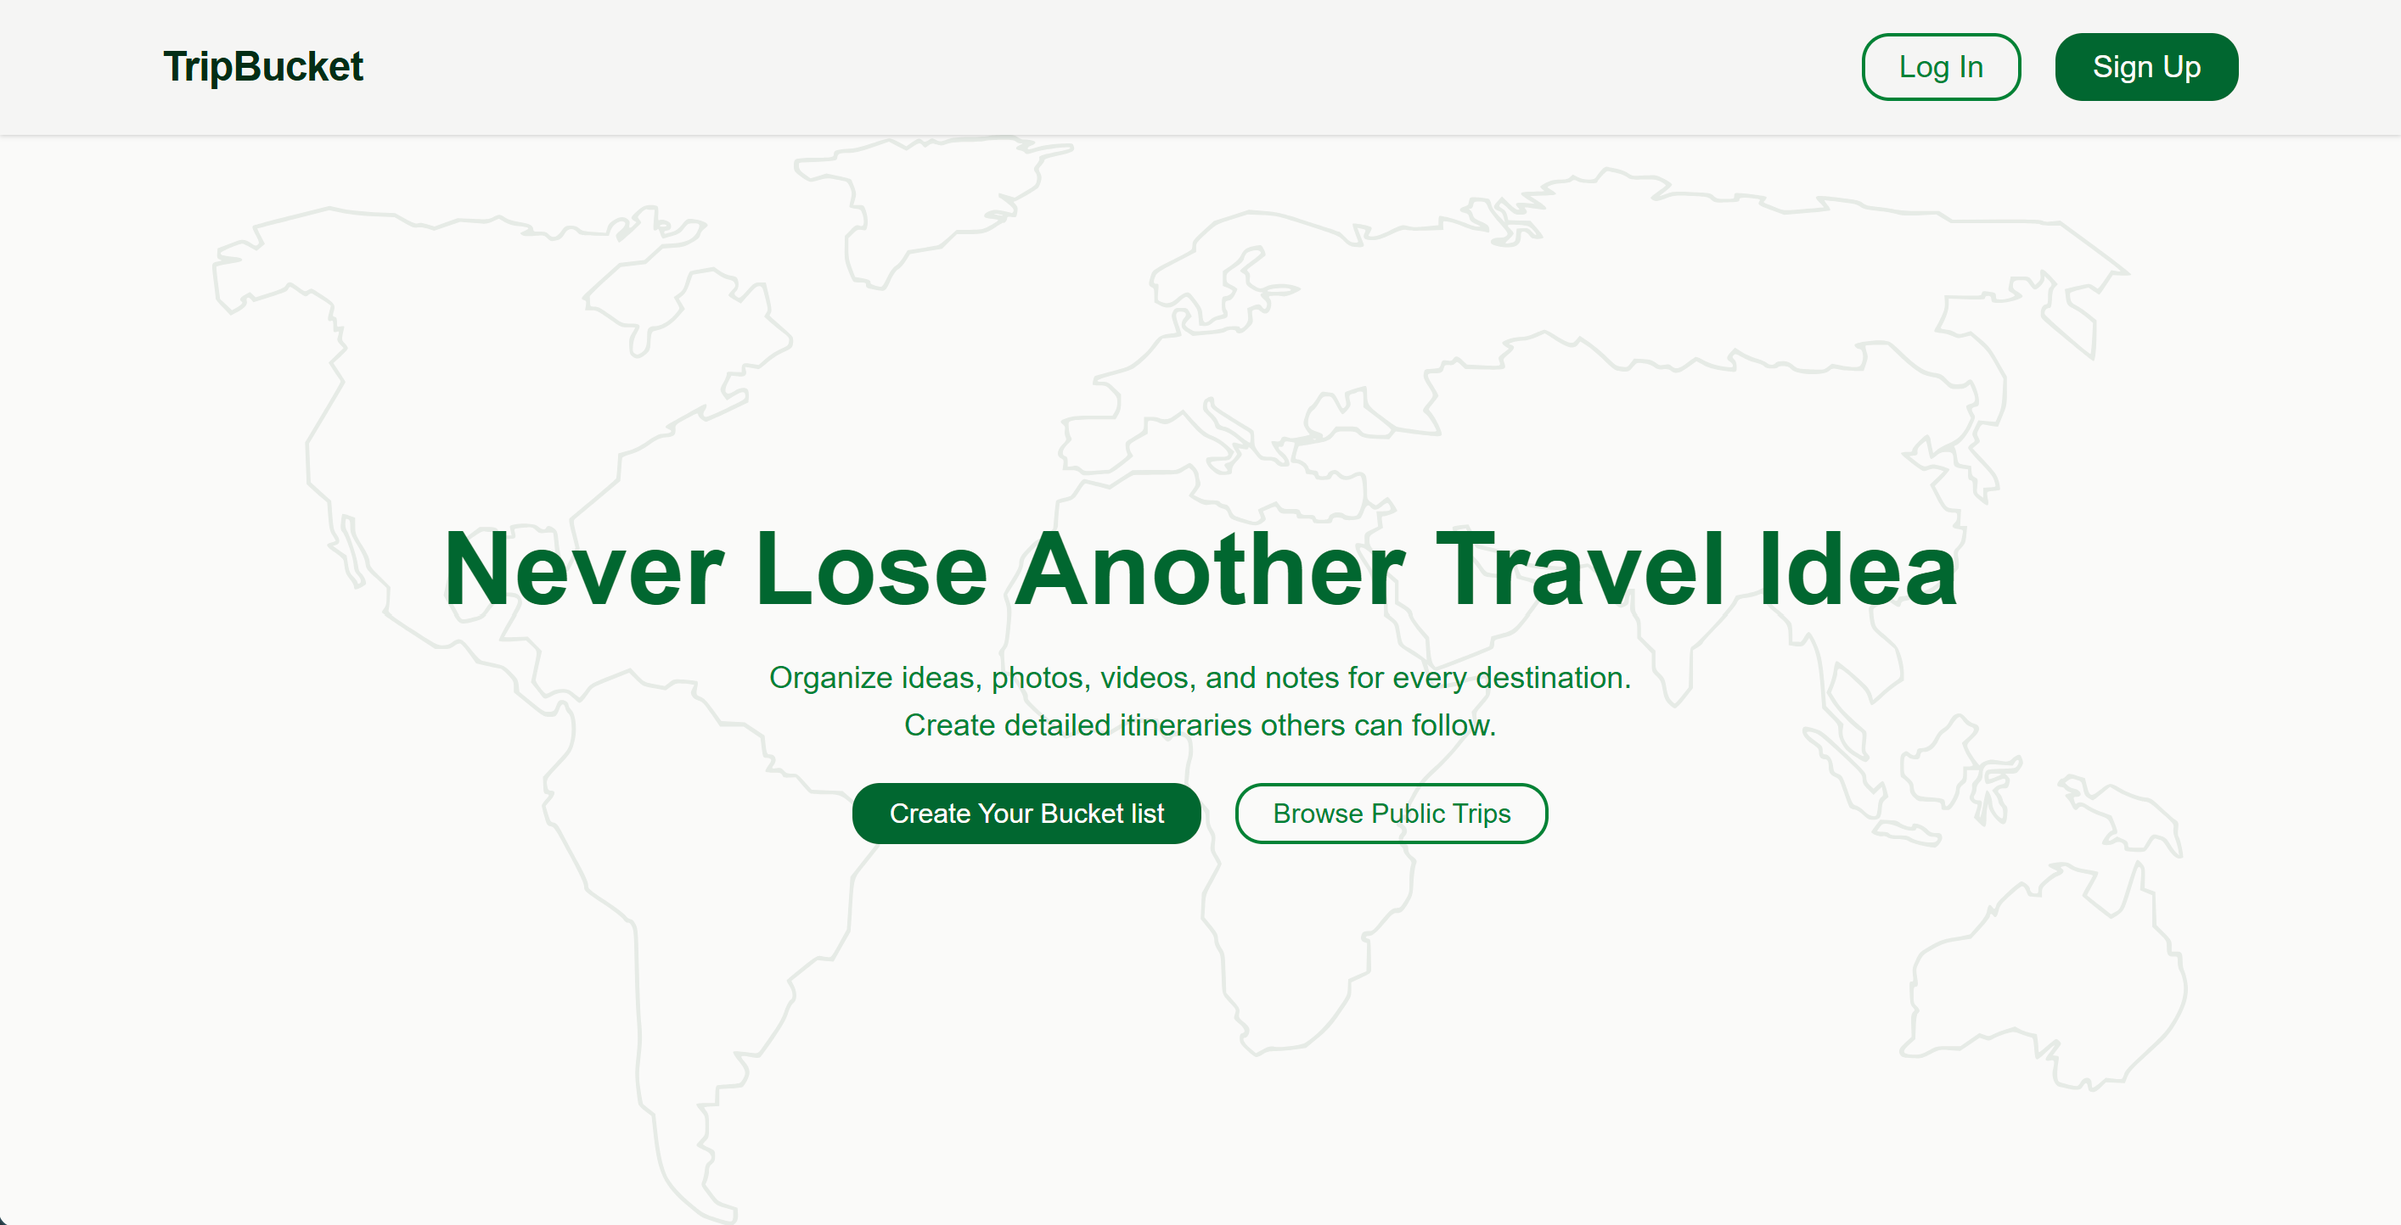
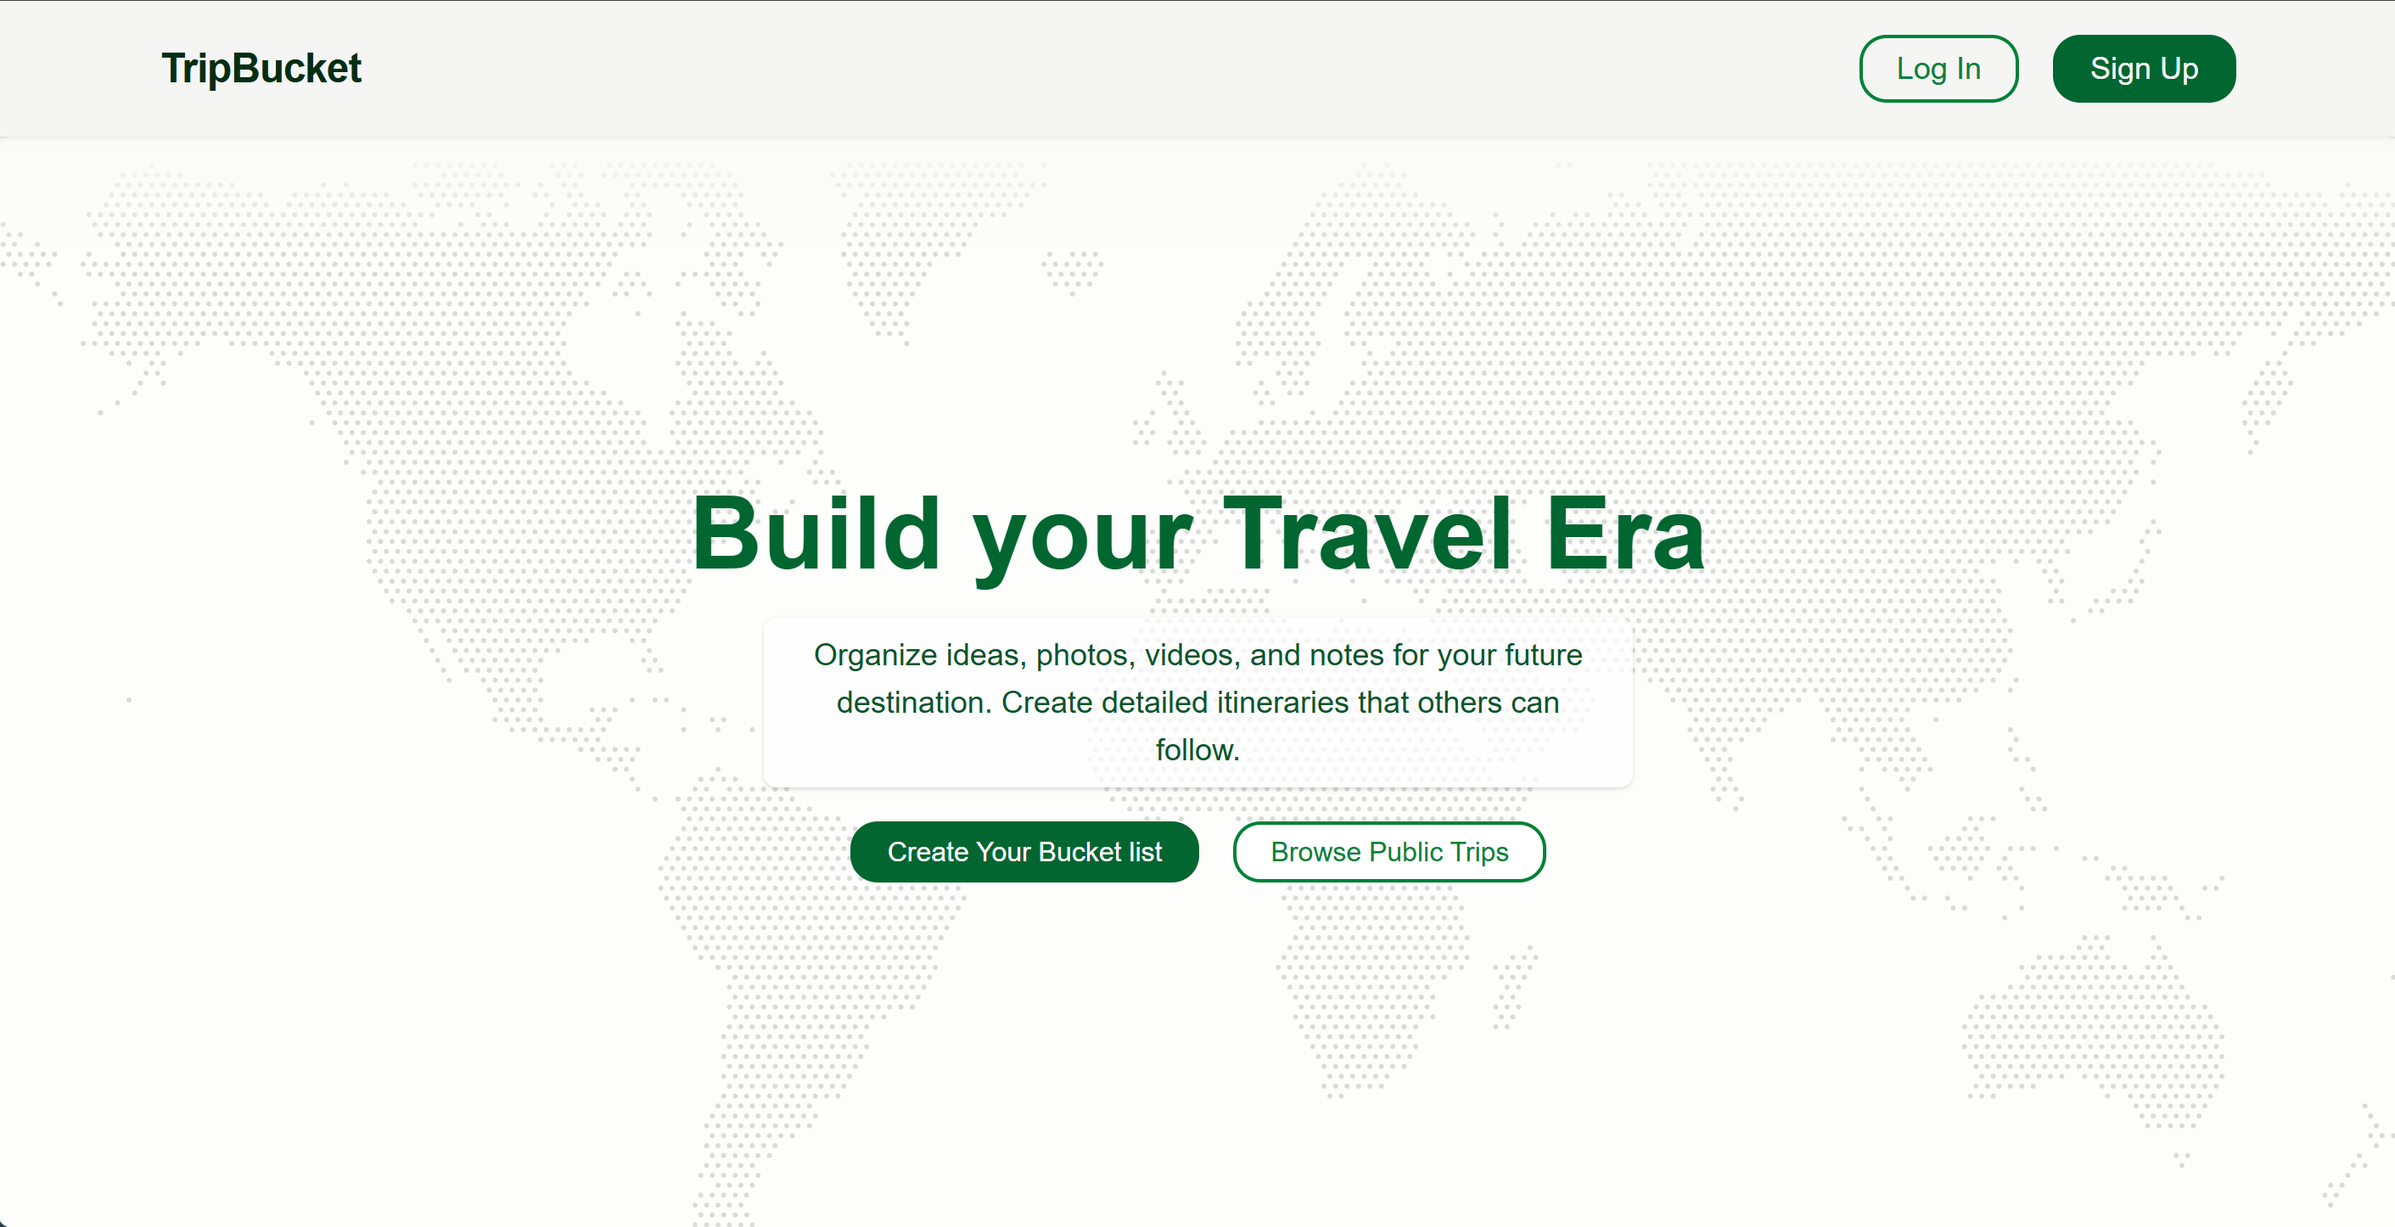
Used DRY on project components and added Wallp

diff --git a/components/AllProjects.tsx b/components/AllProjects.tsx
@@ -1,8 +1,8 @@
 "use client";
-import { ExternalLink } from 'lucide-react';
 import { useEffect, useRef } from 'react';
 import gsap from "gsap";
-import Image from "next/image";
+import { ProjectCard } from './ProjectCard';
+import { ProjectItems } from '@/items/projectItems';
 
 
 export default function AllProjects(){
@@ -26,102 +26,10 @@ export default function AllProjects(){
             </h1>
 
             <div className="grid md:grid-cols-2 grid-cols-1 gap-5 justify-center items-stretch my-10">
-                {/* Card 1 - TripBucket */}
-                <div className="col-span-1 flex flex-col border border-neutral-700 rounded-xl h-full">
-                    <div className="aspect-video overflow-hidden rounded-t-xl">
-                         <Image src='/tripbucket.png' alt='tripbucket-banner' width={800}  height={600}
-                            className="w-full h-full object-cover" />
-                    </div>
-                    
-                    <div className="flex flex-col flex-grow p-5 gap-3">
-                        <h1 className='text-white text-lg font-bold leading-relaxed'>
-                            TripBucket
-                        </h1>
-
-                        <h2 className='text-white text-sm font-light font-sans flex-grow'>
-                            Build your travel bucket list along with its itinerary. Proud of your itinerary, you can share it.
-                        </h2>
-
-                        <div className='grid grid-cols-2 gap-2'>
-                            <a rel="external" target='_blank' href="https://tripbucket.vercel.app/" 
-                                className="col-span-1 text-white border border-neutral-700 text-md flex gap-2 
-                                justify-center items-center transition-all duration-200 cursor-pointer rounded-md py-1
-                                hover:border-zinc-600 hover:bg-stone-800">
-                                <ExternalLink className='size-4'/>
-                                <span>View</span>   
-                            </a>
-                            <a rel="external" target='_blank' href="https://github.com/Vinit-M420/TripBucket" 
-                                className="col-span-1 text-white border border-neutral-700 text-md flex gap-2 
-                                justify-center items-center transition-all duration-200 cursor-pointer rounded-md py-1
-                                hover:border-zinc-600 hover:bg-stone-800">
-                                <Image src='/github-mark-white.svg' alt='Github' width={16} height={16}
-                                    className="w-4 h-4 object-contain" />
-                                <span>Github</span>
-                            </a>   
-                        </div>
-                    </div>
-                </div>
-
-                {/* Card 2 - Reddit Data Pipeline */}
-                <div className="col-span-1 flex flex-col border border-neutral-700 rounded-xl h-full">
-                    <div className="aspect-video overflow-hidden rounded-t-xl">
-                        <Image  src="/redditarch.png" alt='reddit-banner' width={800}  height={600}
-                            className="w-full h-full object-cover" />
-                    </div>
-                    
-                    <div className="flex flex-col flex-grow p-5 gap-3">
-                        <h1 className='text-white text-lg font-bold leading-relaxed'>
-                            Reddit Data Pipeline
-                        </h1>
-
-                        <h2 className='text-white text-sm font-light font-sans flex-grow'>
-                            A complete Data pipeline of Reddit using PRAW, Airflow and GCP                    
-                        </h2>
-
-                        <div className='grid grid-cols-1 gap-2'>
-                            <a rel="external" target='_blank' href="https://github.com/Vinit-M420/reddit-data-pipeline-gcp" 
-                                className="col-span-1 text-white border border-neutral-700 text-md flex gap-2 
-                                justify-center items-center transition-all duration-200 cursor-pointer rounded-md py-1
-                                hover:border-zinc-600 hover:bg-stone-800">
-                                <Image src='/github-mark-white.svg' alt='Github' width={16} height={16}
-                                    className="w-4 h-4 object-contain" />
-                                <span>Github</span>
-                            </a>   
-                        </div>
-                    </div>
-                </div>
-
-                {/* Card 3 - Mock Bookmark */}
-                <div className="col-span-1 flex flex-col border border-neutral-700 rounded-xl h-full">
-                    <div className="aspect-video overflow-hidden rounded-t-xl">
-                        <Image src="/bookmark.png" alt='bookmark-site-banner' width={800} height={600}
-                            className="w-full h-full object-cover" />
-                    </div>
-                    
-                    <div className="flex flex-col flex-grow p-5 gap-3">
-                        <h1 className='text-white text-lg font-bold leading-relaxed'>
-                            Bookmark Manager 
-                        </h1>
-
-                        <h2 className='text-white text-sm font-light font-sans flex-grow'>
-                            Frontend only website built using Tailwind CSS
-                        </h2>
-
-                        <div className='grid grid-cols-1 gap-2'>
-                            <a rel="external" target='_blank' href="https://tailwindbookmark-vinit.vercel.app/" 
-                                className="col-span-1 text-white border border-neutral-700 text-md flex gap-2 
-                                justify-center items-center transition-all duration-200 cursor-pointer rounded-md py-1
-                                hover:border-zinc-600 hover:bg-stone-800">
-                                <ExternalLink className='size-4'/>
-                                <span>View</span>   
-                            </a>
-            
-                        </div>
-                    </div>
-                </div>
-
+                {ProjectItems.map((project, index) => (
+                    <ProjectCard key={index} project={project} />
+                ))}
             </div>
-            
         </div>
     )
 }

diff --git a/components/Projects.tsx b/components/Projects.tsx
@@ -1,17 +1,16 @@
 "use client";
-import { ExternalLink, MoveRight  } from 'lucide-react';
-import github  from "../assets/github-mark-white.svg";
-// import { useNavbarStore } from "../app/store";
+import Link from 'next/link';
+import { MoveRight } from 'lucide-react';
 import { useEffect, useRef } from "react";
 import gsap from "gsap";
 import { ScrollTrigger } from "gsap/ScrollTrigger";
-import Link from 'next/link';
-import Image from "next/image";
+import { ProjectCard } from './ProjectCard';
+import { ProjectItems } from '@/items/projectItems';
 
 gsap.registerPlugin(ScrollTrigger);
 
+
 const Projects = () => {
-    // const {  setNavbarState } = useNavbarStore();
     const projectRef = useRef<HTMLDivElement | null>(null);
     
     useEffect(() => {
@@ -38,72 +37,10 @@ const Projects = () => {
                 Projects
             </h1>
 
-            <div className="grid md:grid-cols-2 grid-cols-1 gap-5 justify-center  mb-5">
-                {/* Card 1 - TripBucket */}
-                <div className="col-span-1 flex flex-col border border-neutral-700 rounded-xl h-full">
-                    <div className="aspect-video overflow-hidden rounded-t-xl">
-                        <Image src='/tripbucket.png' alt='tripbucket-banner' width={800}  height={600}
-                            className="w-full h-full object-cover" />
-                    </div>
-                    
-                    <div className="flex flex-col flex-grow p-5 gap-3">
-                        <h1 className='text-white text-lg font-bold leading-relaxed'>
-                            TripBucket
-                        </h1>
-
-                        <h2 className='text-white text-sm font-light font-sans flex-grow'>
-                            Build your travel bucket list along with its itinerary. Proud of your itinerary, you can share it.
-                        </h2>
-
-                        <div className='grid grid-cols-2 gap-2'>
-                            <a rel="external" target='_blank' href="https://tripbucket.vercel.app/" 
-                                className="col-span-1 text-white border border-neutral-700 text-md flex gap-2 
-                                justify-center items-center transition-all duration-200 cursor-pointer rounded-md 
-                                py-1 hover:border-zinc-600 hover:bg-stone-800">
-                                <ExternalLink className='size-4'/>
-                                <span>View</span>   
-                            </a>
-                            <a rel="external" target='_blank' href="https://github.com/Vinit-M420/TripBucket" 
-                                className="col-span-1 text-white border border-neutral-700 text-md flex gap-2 
-                                justify-center items-center transition-all duration-200 cursor-pointer rounded-md py-1
-                                hover:border-zinc-600 hover:bg-stone-800">
-                                <Image src='/github-mark-white.svg' alt='Github' width={16} height={16} 
-                                    className="w-4 h-4 object-contain" />
-                                <span>Github</span>
-                            </a>   
-                        </div>
-                    </div>
-                </div>
-
-                {/* Card 2 - Reddit Data Pipeline */}
-                <div className="col-span-1 flex flex-col border border-neutral-700 rounded-xl h-full">
-                    <div className="aspect-video overflow-hidden rounded-t-xl">
-                        <Image  src="/redditarch.png" alt='reddit-banner' width={800}  height={600}
-                            className="w-full h-full object-cover" />
-                    </div>            
-                    
-                    <div className="flex flex-col flex-grow p-5 gap-3">
-                        <h1 className='text-white text-lg font-bold leading-relaxed'>
-                            Reddit Data Pipeline
-                        </h1>
-
-                        <h2 className='text-white text-sm font-light font-sans flex-grow'>
-                            A complete Data pipeline of Reddit using PRAW, Airflow and GCP                    
-                        </h2>
-
-                        <div className='grid grid-cols-1 gap-2'>
-                            <a rel="external" target='_blank' href="https://github.com/Vinit-M420/reddit-data-pipeline-gcp" 
-                                className="col-span-1 text-white border border-neutral-700 text-md flex gap-2 
-                                justify-center items-center transition-all duration-200 cursor-pointer rounded-md py-1
-                                hover:border-zinc-600 hover:bg-stone-800">
-                                <Image src='/github-mark-white.svg' alt='Github' width={16} height={16}
-                                    className="w-4 h-4 object-contain" />
-                                <span>Github</span>
-                            </a>   
-                        </div>
-                    </div>
-                </div>
-
+            <div className="grid md:grid-cols-2 grid-cols-1 gap-5 justify-center mb-5">
+                {ProjectItems.slice(0, 2).map((project, index) => (
+                    <ProjectCard key={index} project={project} />
+                ))}
             </div>
             
             <Link href="/projects"

diff --git a/components/ProjectCard.tsx b/components/ProjectCard.tsx
@@ -1,0 +1,47 @@
+import { ProjectType } from "@/types/projecttype"
+import { ExternalLink } from "lucide-react";
+import Image from "next/image";
+
+export const ProjectCard = ({ project }: { project: ProjectType }) => {
+    return (
+        <div className="col-span-1 flex flex-col border border-neutral-700 rounded-xl h-full">
+            <div className="aspect-video overflow-hidden rounded-t-xl">
+                    <Image src={project.bannerImg} alt='tripbucket-banner' width={800}  height={600}
+                    className={`w-full h-full object-cover ${project.bannerClass}`} />
+            </div>
+            
+            <div className="flex flex-col flex-grow p-5 gap-1">
+                <h1 className='text-white text-lg font-bold leading-relaxed'>
+                    {project.title}
+                </h1>
+
+                <h2 className='text-white text-sm font-light font-sans flex-grow'>
+                    {project.description}
+                </h2>
+
+                <div className={`grid grid-cols-${project.linkColSpanEach} gap-2 mt-4`}>
+                    { project.projectUrl ?  
+                    <a rel="external" target='_blank' href={project.projectUrl}
+                        className={`col-span-1 text-white border border-neutral-700 text-md flex gap-2 
+                        justify-center items-center transition-all duration-200 cursor-pointer rounded-md py-1
+                        hover:border-zinc-600 hover:bg-stone-800`}>
+                        <ExternalLink className='size-4'/>
+                        <span>View</span>   
+                    </a> 
+                    : null }
+
+                    { project.projectGithub ?  
+                        <a rel="external" target='_blank' href={project.projectGithub} 
+                            className={`col-span-1 text-white border border-neutral-700 text-md flex gap-2 
+                            justify-center items-center transition-all duration-200 cursor-pointer rounded-md py-1
+                            hover:border-zinc-600 hover:bg-stone-800`}>
+                            <Image src='/github-mark-white.svg' alt='Github' width={16} height={16}
+                                className="w-4 h-4 object-contain" />
+                            <span>Github</span>
+                        </a>  
+                    : null }                                 
+                </div>
+            </div>
+        </div>
+    )
+}

diff --git a/items/projectItems.tsx b/items/projectItems.tsx
@@ -1,0 +1,40 @@
+import { ProjectType } from "@/types/projecttype";
+
+export const ProjectItems : ProjectType[] = [
+    {
+        title: "TripBucket",
+        description: "Build your travel bucket list along with its itinerary. Proud of your itinerary, you can share it.",
+        bannerImg: "/tripbucket.png",
+        bannerClass: null,
+        projectUrl: "https://tripbucket.vercel.app/" ,
+        projectGithub: "https://github.com/Vinit-M420/TripBucket",
+        linkColSpanEach: 2,
+    },
+    {
+        title: "Wallp",
+        description: "Sleek, frontend-only platform where users can discover and share stunning AI-generated wallpapers in a community hub.",
+        bannerImg: "/wallp.png",
+        bannerClass: "object-top",
+        projectUrl: "https://wallp-frontend.vercel.app/" ,
+        projectGithub: "https://github.com/Vinit-M420/wallp-AI-wallpaper-hub",
+        linkColSpanEach: 2,
+    },
+    {
+        title: "Reddit Data Pipeline",
+        description: "A complete Data pipeline of Reddit using PRAW, Airflow and GCP.",
+        bannerImg: "/redditarch.png",
+        bannerClass: null,
+        projectUrl: null,
+        projectGithub: "https://github.com/Vinit-M420/reddit-data-pipeline-gcp",
+        linkColSpanEach: 1,
+    },
+    {
+        title: "Bookmark Manager",
+        description: "Frontend only website built using Tailwind CSS",
+        bannerImg: "/bookmark.png",
+        bannerClass: null,
+        projectUrl: "https://tailwindbookmark-vinit.vercel.app/" ,
+        projectGithub: null,
+        linkColSpanEach: 1,
+    }
+]

diff --git a/types/projecttype.ts b/types/projecttype.ts
@@ -1,0 +1,9 @@
+export type ProjectType = {
+    title: string,
+    description: string,
+    bannerImg: string,
+    bannerClass: string | null,
+    projectUrl: string | null,
+    projectGithub: string | null,
+    linkColSpanEach: number,
+}
